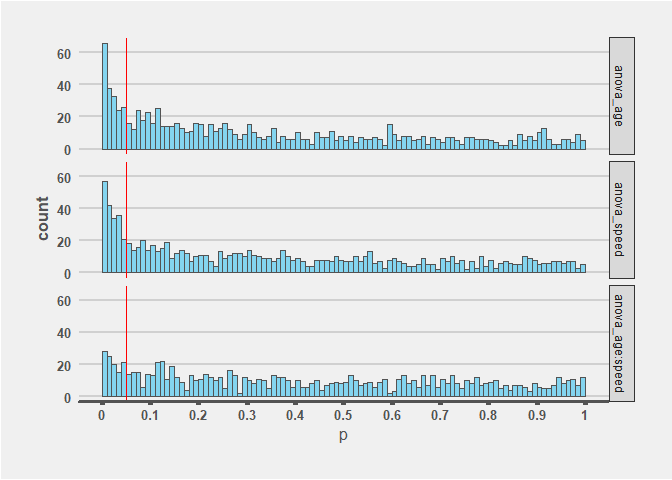
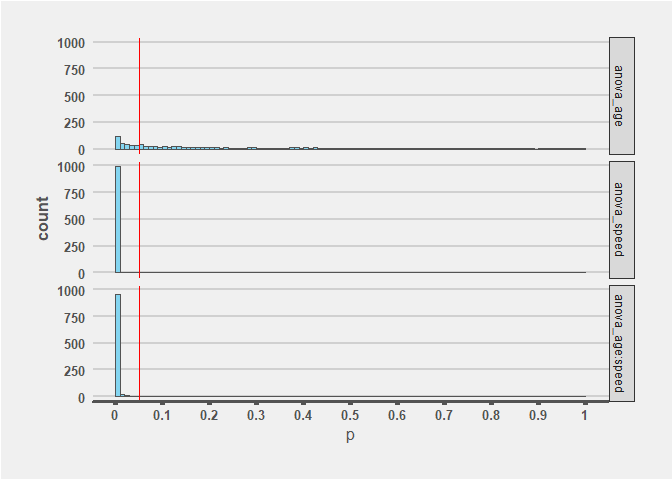
Updated README to provide new figures and labelnames

Changed region(s): [[0.0625, 0.0625, 0.9062, 0.9375]]

diff --git a/README.md b/README.md
@@ -27,9 +27,11 @@ source("https://raw.githubusercontent.com/Lakens/ANOVA_power_simulation/master/A
 ###############
 
 library(mvtnorm)
+#Developmental version of afex is needed for now
+devtools::install_github("singmann/afex@master") 
 library(afex)
-library(emmeans)
 library(ggplot2)
+library(RColorBrewer)
 library(gridExtra)
 library(reshape2)
 ```
@@ -78,6 +80,149 @@ The plot below visualizes means from 1 to 8 being entered in a vector: mu = c(1,
 
 ![](README_files/figure-markdown_github/unnamed-chunk-2-1.png)
 
+    ## $df
+    ##    subject cond           y    factor1    factor2    factor3
+    ## 1        1   V1  2.09979269 factor1_a1 factor2_b1 factor3_c1
+    ## 2        2   V1  0.29666197 factor1_a1 factor2_b1 factor3_c1
+    ## 3        3   V1  0.09508885 factor1_a1 factor2_b1 factor3_c1
+    ## 4        4   V1  1.16709672 factor1_a1 factor2_b1 factor3_c1
+    ## 5        5   V1  3.40231907 factor1_a1 factor2_b1 factor3_c1
+    ## 6        6   V1  1.49029434 factor1_a1 factor2_b1 factor3_c1
+    ## 7        7   V1  0.79319521 factor1_a1 factor2_b1 factor3_c1
+    ## 8        8   V1  0.81582446 factor1_a1 factor2_b1 factor3_c1
+    ## 9        9   V1  2.03006011 factor1_a1 factor2_b1 factor3_c1
+    ## 10      10   V1  0.08240333 factor1_a1 factor2_b1 factor3_c1
+    ## 11      11   V2  2.85137590 factor1_a1 factor2_b1 factor3_c2
+    ## 12      12   V2  1.18032672 factor1_a1 factor2_b1 factor3_c2
+    ## 13      13   V2  1.02309001 factor1_a1 factor2_b1 factor3_c2
+    ## 14      14   V2  1.85015356 factor1_a1 factor2_b1 factor3_c2
+    ## 15      15   V2  4.69480957 factor1_a1 factor2_b1 factor3_c2
+    ## 16      16   V2  2.74279298 factor1_a1 factor2_b1 factor3_c2
+    ## 17      17   V2  1.58735032 factor1_a1 factor2_b1 factor3_c2
+    ## 18      18   V2  2.17836472 factor1_a1 factor2_b1 factor3_c2
+    ## 19      19   V2  2.97303804 factor1_a1 factor2_b1 factor3_c2
+    ## 20      20   V2  1.16688091 factor1_a1 factor2_b1 factor3_c2
+    ## 21       1   V3  3.70868119 factor1_a1 factor2_b2 factor3_c1
+    ## 22       2   V3  2.08086200 factor1_a1 factor2_b2 factor3_c1
+    ## 23       3   V3  2.35086443 factor1_a1 factor2_b2 factor3_c1
+    ## 24       4   V3  2.94617592 factor1_a1 factor2_b2 factor3_c1
+    ## 25       5   V3  5.38598157 factor1_a1 factor2_b2 factor3_c1
+    ## 26       6   V3  2.72523798 factor1_a1 factor2_b2 factor3_c1
+    ## 27       7   V3  2.84979253 factor1_a1 factor2_b2 factor3_c1
+    ## 28       8   V3  3.58188953 factor1_a1 factor2_b2 factor3_c1
+    ## 29       9   V3  4.09231354 factor1_a1 factor2_b2 factor3_c1
+    ## 30      10   V3  2.66031827 factor1_a1 factor2_b2 factor3_c1
+    ## 31      11   V4  5.17538591 factor1_a1 factor2_b2 factor3_c2
+    ## 32      12   V4  3.29179733 factor1_a1 factor2_b2 factor3_c2
+    ## 33      13   V4  2.98655691 factor1_a1 factor2_b2 factor3_c2
+    ## 34      14   V4  4.09490712 factor1_a1 factor2_b2 factor3_c2
+    ## 35      15   V4  6.57327252 factor1_a1 factor2_b2 factor3_c2
+    ## 36      16   V4  4.53307225 factor1_a1 factor2_b2 factor3_c2
+    ## 37      17   V4  3.48477151 factor1_a1 factor2_b2 factor3_c2
+    ## 38      18   V4  4.62406736 factor1_a1 factor2_b2 factor3_c2
+    ## 39      19   V4  4.97543361 factor1_a1 factor2_b2 factor3_c2
+    ## 40      20   V4  3.70387730 factor1_a1 factor2_b2 factor3_c2
+    ## 41      21   V5  6.40444389 factor1_a2 factor2_b1 factor3_c1
+    ## 42      22   V5  4.13012985 factor1_a2 factor2_b1 factor3_c1
+    ## 43      23   V5  4.53241839 factor1_a2 factor2_b1 factor3_c1
+    ## 44      24   V5  5.83390248 factor1_a2 factor2_b1 factor3_c1
+    ## 45      25   V5  7.33682922 factor1_a2 factor2_b1 factor3_c1
+    ## 46      26   V5  5.28866931 factor1_a2 factor2_b1 factor3_c1
+    ## 47      27   V5  4.20327171 factor1_a2 factor2_b1 factor3_c1
+    ## 48      28   V5  5.13722280 factor1_a2 factor2_b1 factor3_c1
+    ## 49      29   V5  5.83835545 factor1_a2 factor2_b1 factor3_c1
+    ## 50      30   V5  4.22656713 factor1_a2 factor2_b1 factor3_c1
+    ## 51      31   V6  7.25310630 factor1_a2 factor2_b1 factor3_c2
+    ## 52      32   V6  4.70358531 factor1_a2 factor2_b1 factor3_c2
+    ## 53      33   V6  4.92643605 factor1_a2 factor2_b1 factor3_c2
+    ## 54      34   V6  6.07795326 factor1_a2 factor2_b1 factor3_c2
+    ## 55      35   V6  8.58224721 factor1_a2 factor2_b1 factor3_c2
+    ## 56      36   V6  6.25572645 factor1_a2 factor2_b1 factor3_c2
+    ## 57      37   V6  5.81046496 factor1_a2 factor2_b1 factor3_c2
+    ## 58      38   V6  5.86547934 factor1_a2 factor2_b1 factor3_c2
+    ## 59      39   V6  7.53094465 factor1_a2 factor2_b1 factor3_c2
+    ## 60      40   V6  5.48320017 factor1_a2 factor2_b1 factor3_c2
+    ## 61      21   V7  7.94229558 factor1_a2 factor2_b2 factor3_c1
+    ## 62      22   V7  6.02442914 factor1_a2 factor2_b2 factor3_c1
+    ## 63      23   V7  6.17362190 factor1_a2 factor2_b2 factor3_c1
+    ## 64      24   V7  7.21500010 factor1_a2 factor2_b2 factor3_c1
+    ## 65      25   V7  9.52972836 factor1_a2 factor2_b2 factor3_c1
+    ## 66      26   V7  7.17327435 factor1_a2 factor2_b2 factor3_c1
+    ## 67      27   V7  6.30728341 factor1_a2 factor2_b2 factor3_c1
+    ## 68      28   V7  6.92211491 factor1_a2 factor2_b2 factor3_c1
+    ## 69      29   V7  8.05372558 factor1_a2 factor2_b2 factor3_c1
+    ## 70      30   V7  6.14974945 factor1_a2 factor2_b2 factor3_c1
+    ## 71      31   V8  8.90430357 factor1_a2 factor2_b2 factor3_c2
+    ## 72      32   V8  6.90399144 factor1_a2 factor2_b2 factor3_c2
+    ## 73      33   V8  7.14917767 factor1_a2 factor2_b2 factor3_c2
+    ## 74      34   V8  8.39632528 factor1_a2 factor2_b2 factor3_c2
+    ## 75      35   V8 10.64466915 factor1_a2 factor2_b2 factor3_c2
+    ## 76      36   V8  7.72016935 factor1_a2 factor2_b2 factor3_c2
+    ## 77      37   V8  7.26969303 factor1_a2 factor2_b2 factor3_c2
+    ## 78      38   V8  7.93340280 factor1_a2 factor2_b2 factor3_c2
+    ## 79      39   V8  8.77979210 factor1_a2 factor2_b2 factor3_c2
+    ## 80      40   V8  7.39393674 factor1_a2 factor2_b2 factor3_c2
+    ## 
+    ## $design
+    ## [1] 0 1 0
+    ## 
+    ## $design_list
+    ## [1] "factor1_a1_factor2_b1_factor3_c1" "factor1_a1_factor2_b1_factor3_c2"
+    ## [3] "factor1_a1_factor2_b2_factor3_c1" "factor1_a1_factor2_b2_factor3_c2"
+    ## [5] "factor1_a2_factor2_b1_factor3_c1" "factor1_a2_factor2_b1_factor3_c2"
+    ## [7] "factor1_a2_factor2_b2_factor3_c1" "factor1_a2_factor2_b2_factor3_c2"
+    ## 
+    ## $factors
+    ## [1] 3
+    ## 
+    ## $frml1
+    ## y ~ factor1 * factor2 * factor3 + Error(subject/factor2)
+    ## <environment: 0x000000000c6076c8>
+    ## 
+    ## $frml2
+    ## ~factor1 + factor2 + factor3
+    ## <environment: 0x000000000c6076c8>
+    ## 
+    ## $mu
+    ## [1] 1 2 3 4 5 6 7 8
+    ## 
+    ## $sd
+    ## [1] 1
+    ## 
+    ## $r
+    ## [1] 0.9
+    ## 
+    ## $n
+    ## [1] 10
+    ## 
+    ## $p_adjust
+    ## [1] "none"
+    ## 
+    ## $sigmatrix
+    ##    X1  X2  X3  X4  X5  X6  X7  X8
+    ## 1 1.0 0.0 0.9 0.0 0.0 0.0 0.0 0.0
+    ## 2 0.0 1.0 0.0 0.9 0.0 0.0 0.0 0.0
+    ## 3 0.9 0.0 1.0 0.0 0.0 0.0 0.0 0.0
+    ## 4 0.0 0.9 0.0 1.0 0.0 0.0 0.0 0.0
+    ## 5 0.0 0.0 0.0 0.0 1.0 0.0 0.9 0.0
+    ## 6 0.0 0.0 0.0 0.0 0.0 1.0 0.0 0.9
+    ## 7 0.0 0.0 0.0 0.0 0.9 0.0 1.0 0.0
+    ## 8 0.0 0.0 0.0 0.0 0.0 0.9 0.0 1.0
+    ## 
+    ## $string
+    ## [1] "2b*2w*2b"
+    ## 
+    ## $labelnames
+    ## [1] "factor1" "a1"      "a2"      "factor2" "b1"      "b2"      "factor3"
+    ## [8] "c1"      "c2"     
+    ## 
+    ## $factornames
+    ## [1] "factor1" "factor2" "factor3"
+    ## 
+    ## $meansplot
+
+![](README_files/figure-markdown_github/unnamed-chunk-2-2.png)
+
 ### specifying label names
 
 To make sure the plots and tables with simulation results are easy to interpret, it really helps to name all factors and levels. You can enter the labels in the 'labelnames' variable.
@@ -87,6 +232,25 @@ For the 2x3 design we have been using as an example, where there are 2 factors (
 c("condition", "placebo", "medicine", "time", "time1", "time2", "time3")
 
 As you can see, you follow the order of the design (2b\*3w), and first write the FACTOR label (condition) followed by the levels of that factor (placebo and medicine). Then you write the second factor name (time) followed by the three labels for each level (time1, time2, time3). Do not use spaces in the names (so not "time 1" but "time1" or "time\_1").
+
+The covariance matrix
+=====================
+
+Depending on whether factors are manipulated within or between, variables are correlated, or not. The covariance matrix is:
+
+``` r
+design_result$sigmatrix
+```
+
+    ##    X1  X2  X3  X4  X5  X6  X7  X8
+    ## 1 1.0 0.0 0.9 0.0 0.0 0.0 0.0 0.0
+    ## 2 0.0 1.0 0.0 0.9 0.0 0.0 0.0 0.0
+    ## 3 0.9 0.0 1.0 0.0 0.0 0.0 0.0 0.0
+    ## 4 0.0 0.9 0.0 1.0 0.0 0.0 0.0 0.0
+    ## 5 0.0 0.0 0.0 0.0 1.0 0.0 0.9 0.0
+    ## 6 0.0 0.0 0.0 0.0 0.0 1.0 0.0 0.9
+    ## 7 0.0 0.0 0.0 0.0 0.9 0.0 1.0 0.0
+    ## 8 0.0 0.0 0.0 0.0 0.0 0.9 0.0 1.0
 
 The ANOVA\_power function
 -------------------------
@@ -105,7 +269,7 @@ The alpha level used as a significance threshold can be specified, and is set to
 ``` r
 design_result <- ANOVA_design(string = "2b*2w",
                    n = 80, 
-                   mu = c(1.03, 1.21, 0.98, 1.01), 
+                   mu = c(1.03, 1.41, 0.98, 1.01), 
                    sd = 1.03, 
                    r=0.87, 
                    p_adjust = "none",
@@ -119,27 +283,26 @@ set.seed(1) #set seed to get reproducible results
 simulation_result <- ANOVA_power(design_result, alpha = 0.05, nsims = 1000)
 ```
 
+    ## Warning: package 'emmeans' was built under R version 3.5.1
+
+    ## NOTE: As of emmeans versions > 1.2.3,
+    ##       The 'cld' function will be deprecated in favor of 'CLD'.
+    ##       You may use 'cld' only if you have package:multcomp attached.
+
     ## Power and Effect sizes for ANOVA tests
     ##                 power effect size
-    ## anova_age        18.7       0.008
-    ## anova_speed      19.0       0.007
-    ## anova_age:speed  10.9       0.005
+    ## anova_age        27.8      0.0131
+    ## anova_speed      99.9      0.1361
+    ## anova_age:speed  98.9      0.1035
     ## 
     ## Power and Effect sizes for contrasts
-    ##                                                               power
-    ## paired_comparison_age_old,speed_fast - age_young,speed_fast     5.4
-    ## paired_comparison_age_old,speed_fast - age_old,speed_slow      21.0
-    ## paired_comparison_age_old,speed_fast - age_young,speed_slow     4.5
-    ## paired_comparison_age_young,speed_fast - age_old,speed_slow    32.5
-    ## paired_comparison_age_young,speed_fast - age_young,speed_slow   5.9
-    ## paired_comparison_age_old,speed_slow - age_young,speed_slow    25.5
-    ##                                                               effect size
-    ## paired_comparison_age_old,speed_fast - age_young,speed_fast          0.04
-    ## paired_comparison_age_old,speed_fast - age_old,speed_slow           -0.19
-    ## paired_comparison_age_old,speed_fast - age_young,speed_slow          0.01
-    ## paired_comparison_age_young,speed_fast - age_old,speed_slow         -0.23
-    ## paired_comparison_age_young,speed_fast - age_young,speed_slow       -0.03
-    ## paired_comparison_age_old,speed_slow - age_young,speed_slow          0.20
+    ##                                             power effect size
+    ## p_age_old_speed_fast_age_old_speed_slow     100.0      0.7387
+    ## p_age_old_speed_fast_age_young_speed_fast     5.2     -0.0450
+    ## p_age_old_speed_fast_age_young_speed_slow     5.2     -0.0150
+    ## p_age_old_speed_slow_age_young_speed_fast    74.2     -0.4198
+    ## p_age_old_speed_slow_age_young_speed_slow    68.7     -0.3900
+    ## p_age_young_speed_fast_age_young_speed_slow   8.3      0.0593
 
 The result for the power simulation has two sections. The first table provides power (from 0 to 100%) and effect sizes (partial eta-squared) for the ANOVA result. We see the results for the main effects of factor a, b and the interaction between a and b.
 
@@ -151,9 +314,9 @@ The second table provides the power for all contrasts, and the effect sizes. Eff
 
 Power is relatively high for the contrast comparing a1,b2-a1,b1 - remember this is the within-subject contrast where means differ, and the correlation between dependent observations is large (r = 0.87). Power for the contrast a1,b2-a2,b2 is much lower, because this is a between subjects comparison.
 
-Power is very low for the minor differences among the three similar means (1.03, 0.98, 1.01) as can be seen from first, third, and fifth lines in the contrast output.
+Power is very low for the minor differences among the three similar means (1.03, 0.98, 1.01) as can be seen from second, third, and seventh lines in the contrast output.
 
-Note the difference in the effect size estimates. For the contrast a1,b1 - a1,b2 Cohen's dz is much larger (due to the strong positive correlation) than Cohen's d reported for the contrast a1,b2 - a2,b2, even though the raw mean differences are almost identical. This is because Cohen's dz takes the correlation into account.
+Note the difference in the effect size estimates. For the contrast age\_old\_speed\_fast - age\_old\_speed\_slow Cohen's dz is much larger (due to the strong positive correlation) than Cohen's d reported for the contrast age\_old\_speed\_fast - age\_young\_speed\_slow, even though the raw mean differences are almost identical. This is because Cohen's dz takes the correlation into account.
 
 In addition to the two tables, the ANOVA\_power function returns the raw simulation data (all p-values and effect sizes for each simulation, use simulation\_result$sim\_data) and a plot showing the p-value distributions for all tests in the ANOVA.
 
